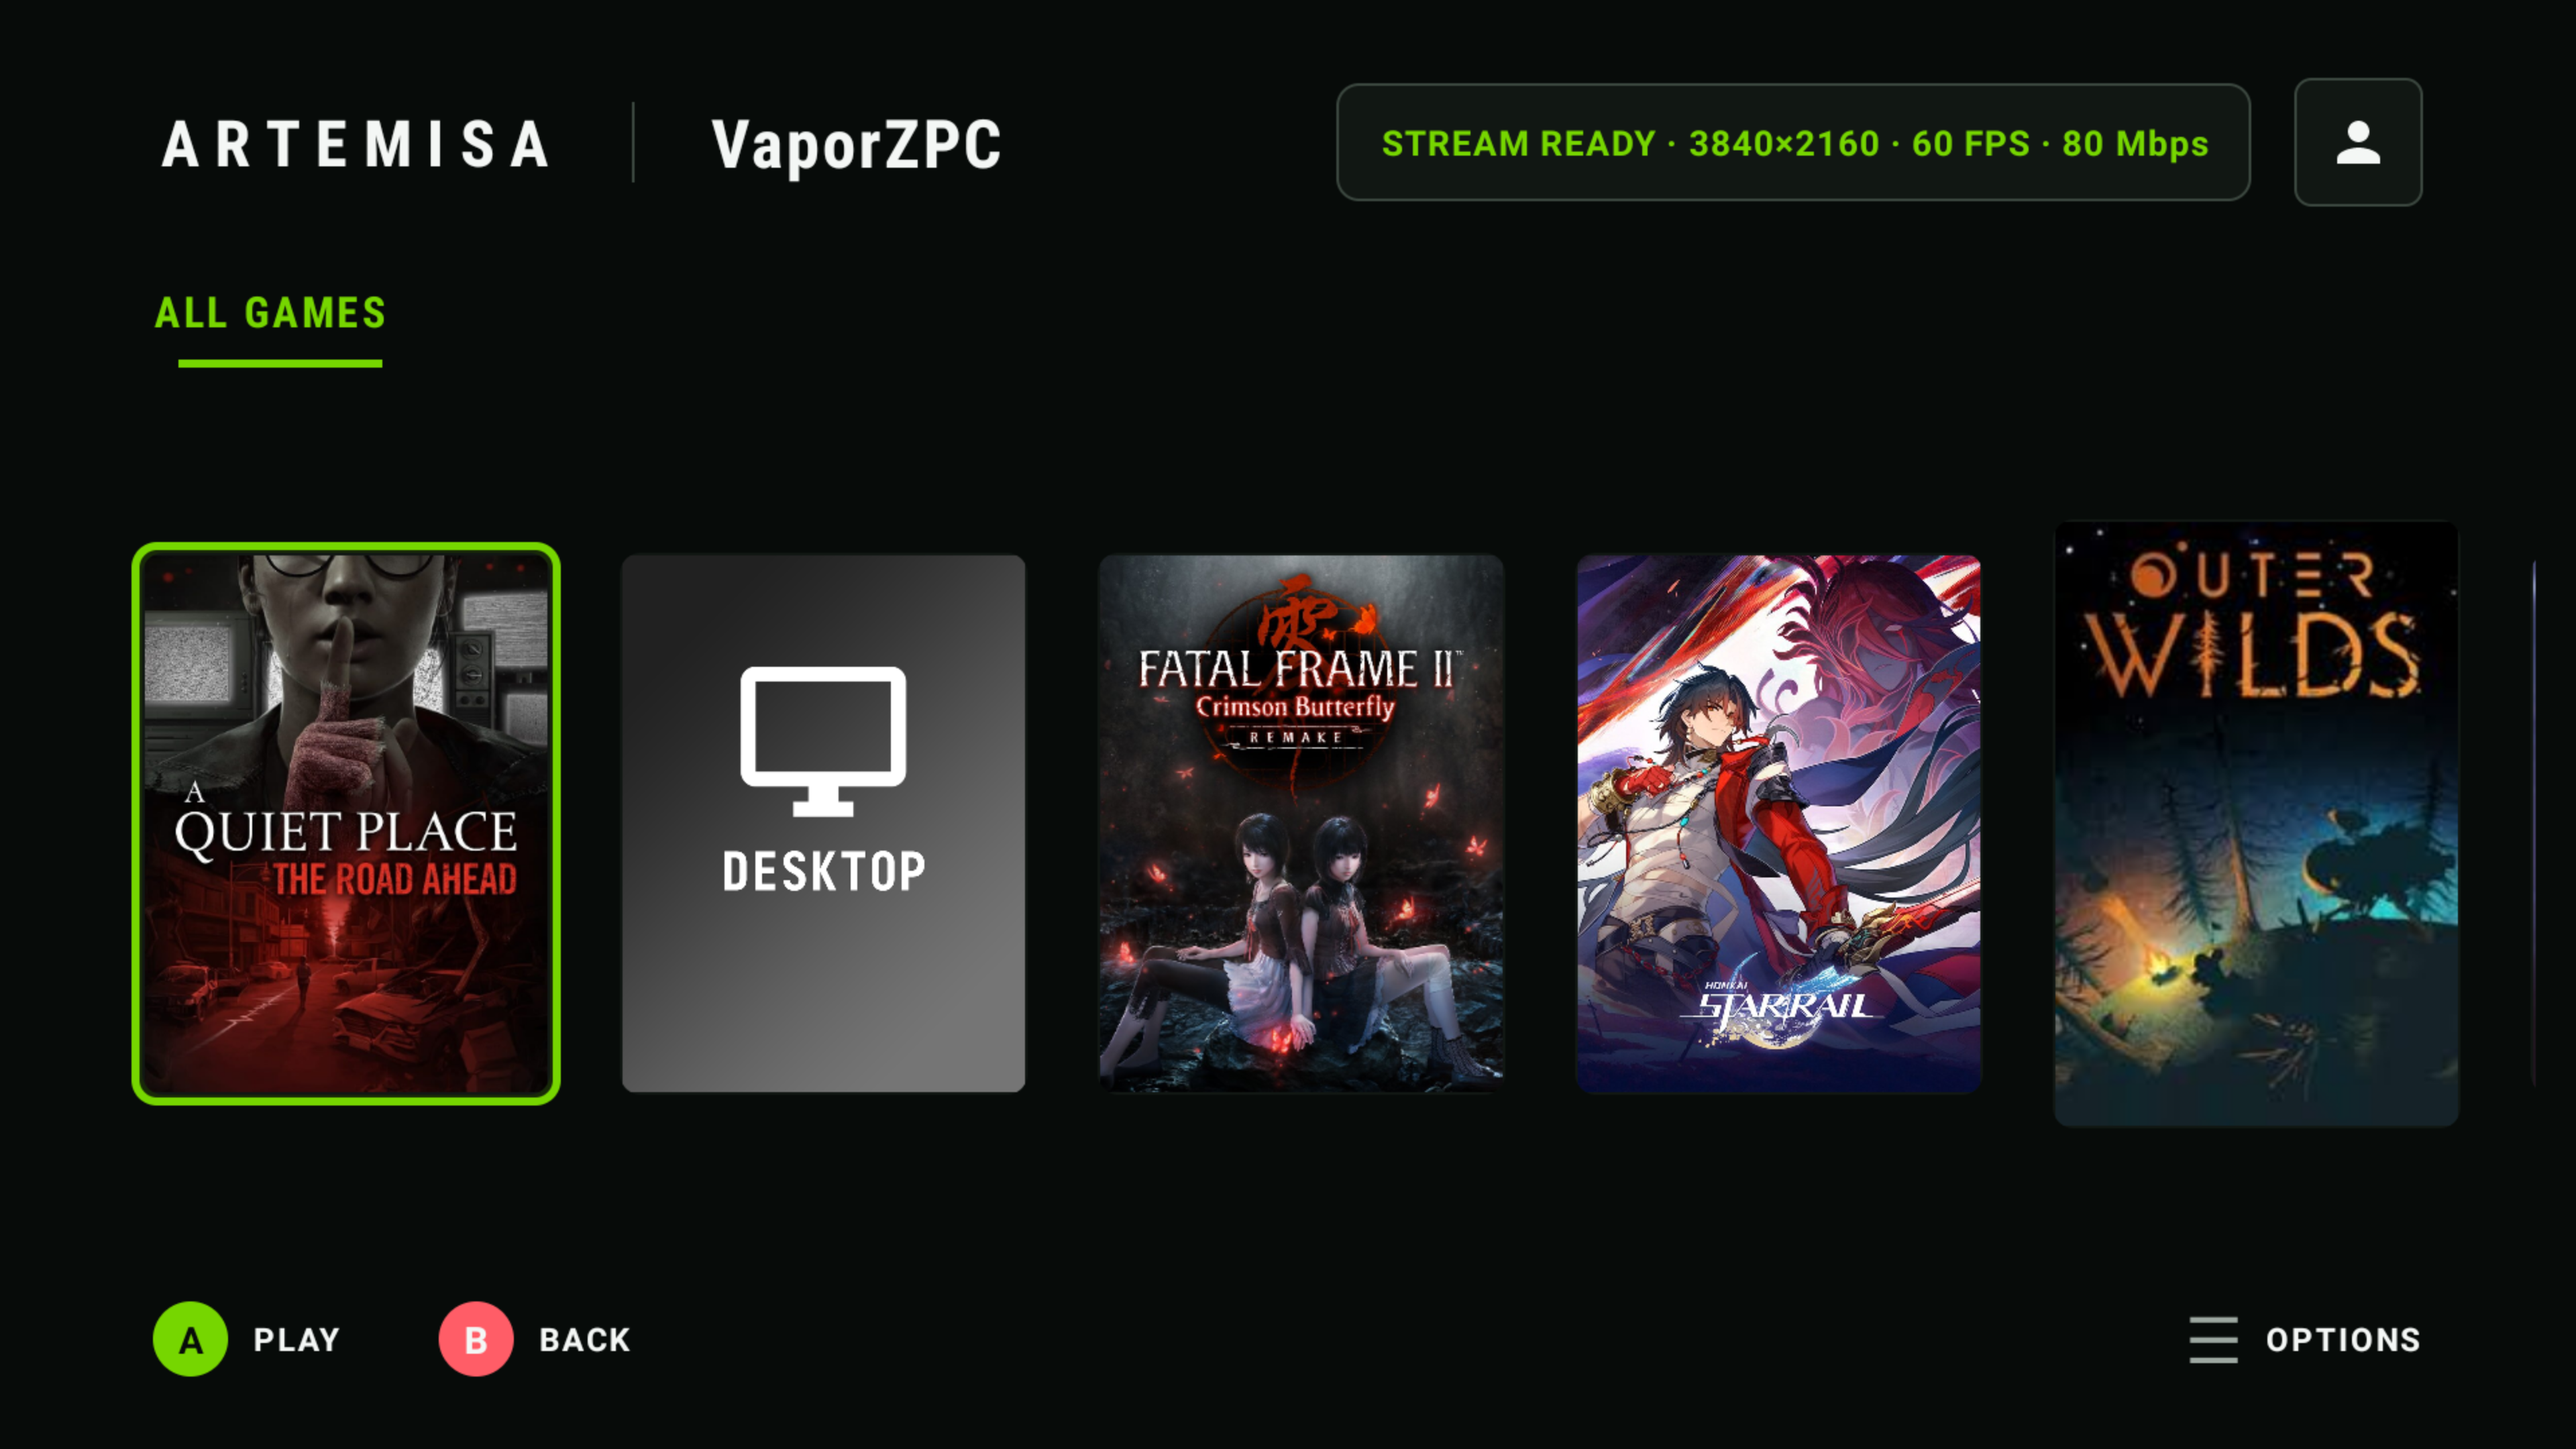
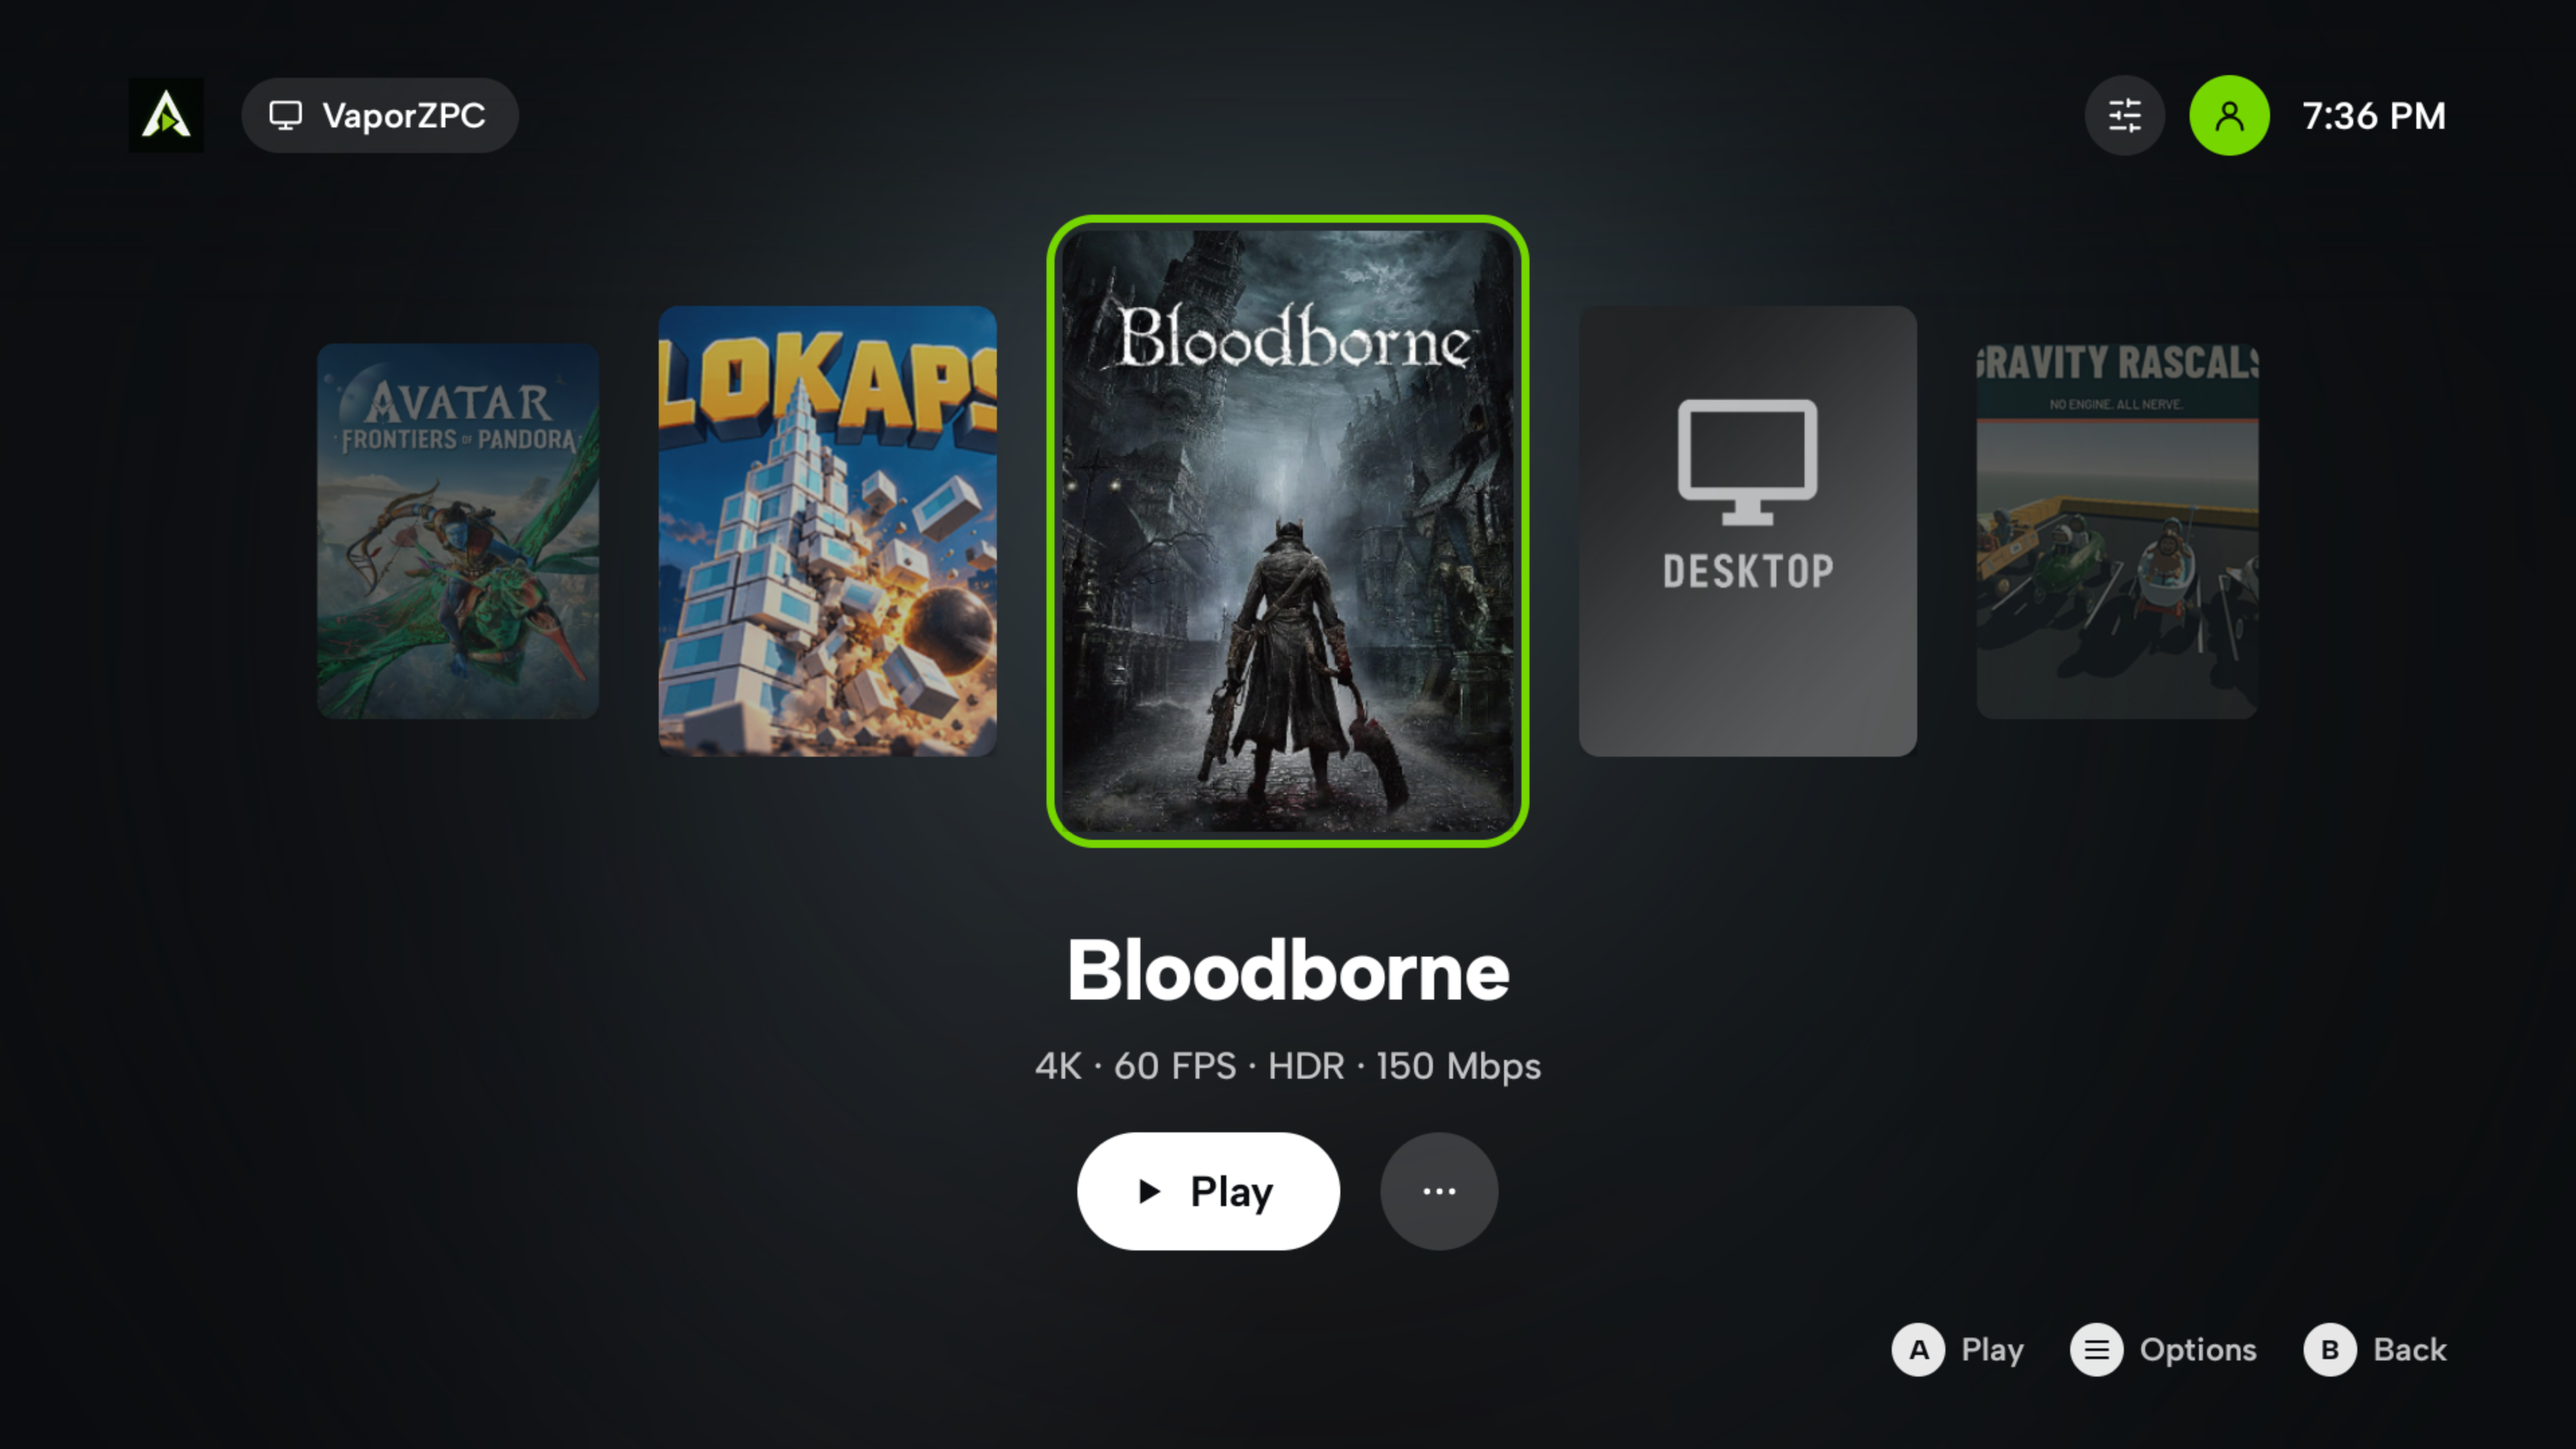
Refresh the README screenshots for the new design
New 4K captures from a Shield: Spotlight, the Grid, game page, Showcase
and Title list layouts, the computers screen, settings with the frame
pacing guide, and the in-stream quick menu (the streamed desktop behind
it is blurred). The highlights now describe the library layouts and the
settings guide instead of the old shelf and appearance options.

diff --git a/README.md b/README.md
@@ -29,18 +29,43 @@
 Artemisa reshapes the familiar Moonlight streaming experience into a console-style interface for Android TV and NVIDIA Shield. The home screen, game library, settings, and in-stream quick menu are designed around predictable D-pad focus and comfortable viewing from across the room.
 
 <a href="docs/screenshots/library.png">
-  <img src="docs/screenshots/library.png" alt="Artemisa horizontal game shelf" width="100%">
+  <img src="docs/screenshots/library.png" alt="Artemisa Spotlight library: the focused cover centred, its title and Play underneath" width="100%">
 </a>
+
+Pick the library layout that suits you in Settings → Library:
 
 <table>
   <tr>
     <td width="50%" align="center">
-      <a href="docs/screenshots/home.png"><img src="docs/screenshots/home.png" alt="Artemisa computer home screen"></a>
+      <a href="docs/screenshots/library-grid.png"><img src="docs/screenshots/library-grid.png" alt="Artemisa grid library of game covers"></a>
+      <br><sub><strong>Grid: every cover at once</strong></sub>
+    </td>
+    <td width="50%" align="center">
+      <a href="docs/screenshots/game-page.png"><img src="docs/screenshots/game-page.png" alt="Artemisa game page with cover, Play and options"></a>
+      <br><sub><strong>Game page, opened from the grid</strong></sub>
+    </td>
+  </tr>
+  <tr>
+    <td width="50%" align="center">
+      <a href="docs/screenshots/library-showcase.png"><img src="docs/screenshots/library-showcase.png" alt="Artemisa showcase library with a full-height cover"></a>
+      <br><sub><strong>Showcase</strong></sub>
+    </td>
+    <td width="50%" align="center">
+      <a href="docs/screenshots/library-list.png"><img src="docs/screenshots/library-list.png" alt="Artemisa title list library"></a>
+      <br><sub><strong>Title list</strong></sub>
+    </td>
+  </tr>
+</table>
+
+<table>
+  <tr>
+    <td width="50%" align="center">
+      <a href="docs/screenshots/home.png"><img src="docs/screenshots/home.png" alt="Artemisa computers home screen"></a>
       <br><sub><strong>Console-style home</strong></sub>
     </td>
     <td width="50%" align="center">
-      <a href="docs/screenshots/appearance.png"><img src="docs/screenshots/appearance.png" alt="Artemisa appearance settings"></a>
-      <br><sub><strong>TV-friendly settings</strong></sub>
+      <a href="docs/screenshots/settings.png"><img src="docs/screenshots/settings.png" alt="Artemisa settings with section tabs and a guide card explaining frame pacing"></a>
+      <br><sub><strong>Settings that explain themselves</strong></sub>
     </td>
   </tr>
 </table>
@@ -52,10 +77,10 @@ Artemisa reshapes the familiar Moonlight streaming experience into a console-sty
 ## Highlights
 
 - Console-style home and game library with clear, animated controller focus.
-- Optional horizontal shelf for browsing portrait game covers left to right.
+- Four library layouts: the Spotlight carousel, a covers-only Grid with a page for each game, Showcase, and Title list.
 - Persistent in-stream quick menu with smooth submenu transitions and reliable back navigation.
 - Quick access to performance overlays, mouse modes, advanced controls, an on-screen keyboard, disconnect, and End Stream.
-- Appearance controls for the library layout, box-art density, and quick-menu opacity.
+- Settings with section tabs (LB/RB), values you change with left and right, and a guide card that explains whatever is focused.
 - Configurable frame pacing and optional low-latency frame rendering - settings remain under your control.
 - Apollo virtual-display and server-command integration, custom resolutions and bitrates, HDR, surround audio, controller support, and the broader Artemis feature set.
 
